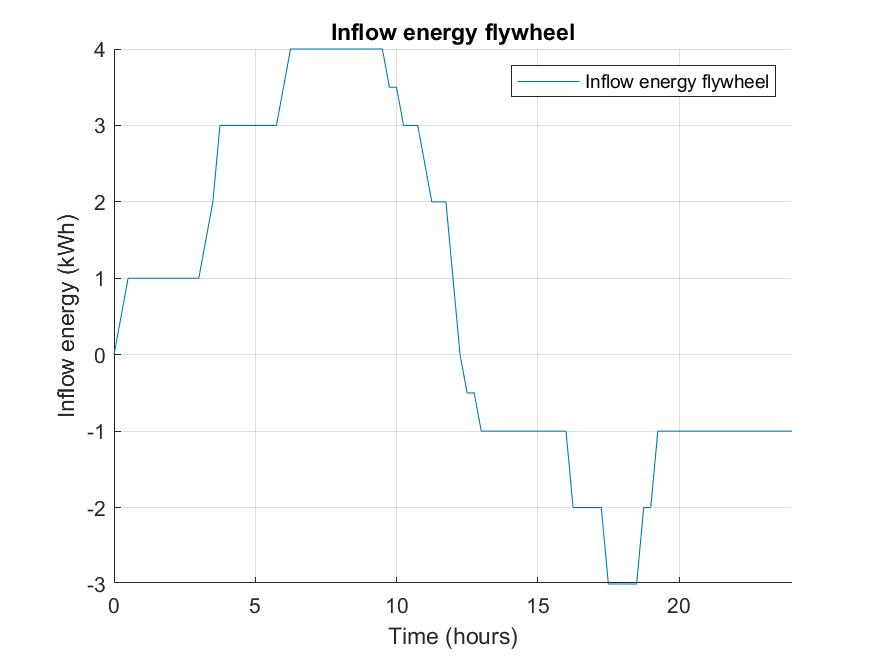
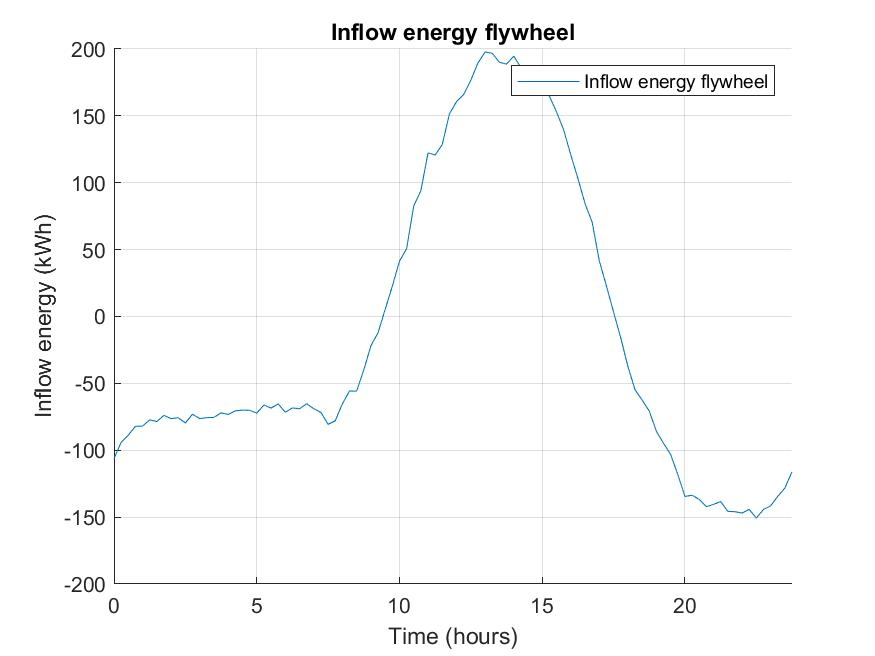
Changed flywheel_energy to take in losses in system Changed density cement

diff --git a/loadConstants.m b/loadConstants.m
@@ -11,11 +11,11 @@ time_step = 0.25;                                                           %Tim
 time_end = 23.75;                                                              %End time, after 24 hours
 flywheel_in = 0;                                                            %Starting inflow energy
 flywheel_energy = 0;                                                        %Starting energy flywheel
-flywheel_angular = 0 ;                                                      %Starting angular velocity flywheel
+flywheel_angular =  0;                                                      %Starting angular velocity flywheel
 
 r_flywheel = 0.85;                                                          %Radius of the flywheel
 d_flywheel = 0.40;                                                          %Thickness of the flywheel
-rho_flywheel = 3100;                                                        %Density of the material of which the flywheel is made (solid)
+rho_flywheel = 1440;                                                        %Density of the material of which the flywheel is made (solid)
 rho_air = 1.2041;                                                           %Density of air
 c_lin = 1.17;                                                               %linear air drag coefficient
 c_ang = 0.01;                                                               %angular drag coefficient

diff --git a/main.m b/main.m
@@ -33,7 +33,6 @@ for t=time_start:time_step:time_end
      
     flywheel_in = table_energy(2,Column);
     flywheel_in_joule = flywheel_in*3.6e+6;
-    flywheel_energy = flywheel_energy + flywheel_in;
     
     %flywheel_losses = pi * flywheel_angular^2 * r_flywheel^4 * d_flywheel * rho_air;
     side_drag = rho_air * A_sides * c_lin;
@@ -53,6 +52,8 @@ for t=time_start:time_step:time_end
         flywheel_angular = 0;
     end
     
+    flywheel_energy = flywheel_energy + flywheel_in_joule;
+    
     %Log data to table 
     table_flywheel(2,Column)=flywheel_angular;                              %Assign value for flywheel revolutions to table
     table_flywheel(3,Column)=flywheel_energy;                               %Assign value for flywheel energy to table
@@ -63,7 +64,7 @@ for t=time_start:time_step:time_end
 end
 %%
 %Settings plots
-generate_fig1 = false;                                                       %Inflow energy graph
+generate_fig1 = true;                                                       %Inflow energy graph
 generate_fig2 = true;                                                       %Angular velocity flywheel graph
 generate_fig3 = true;
 

diff --git a/plotGraphs.m b/plotGraphs.m
@@ -49,11 +49,11 @@ if generate_fig3 == true
     figure(3); plot(t_var,side_drag);
     figure(3); plot(t_var,top_drag);
 
-    figure(3); ylabel('Losses [kWh]')
+    figure(3); ylabel('Losses [kW]')
     figure(3); legend({'Losses due to side drag', 'Losses due to top drag'}, 'Location','northeast')
 
     figure(3); xlim([0 time_end]);
     figure(3); xlabel('Time (hours)')
-    figure(3); title('Losses to air drag in kWh')
+    figure(3); title('Losses to air drag in kW')
     figure(3); saveas(gcf,'figures\airDrag.jpg')
 end
